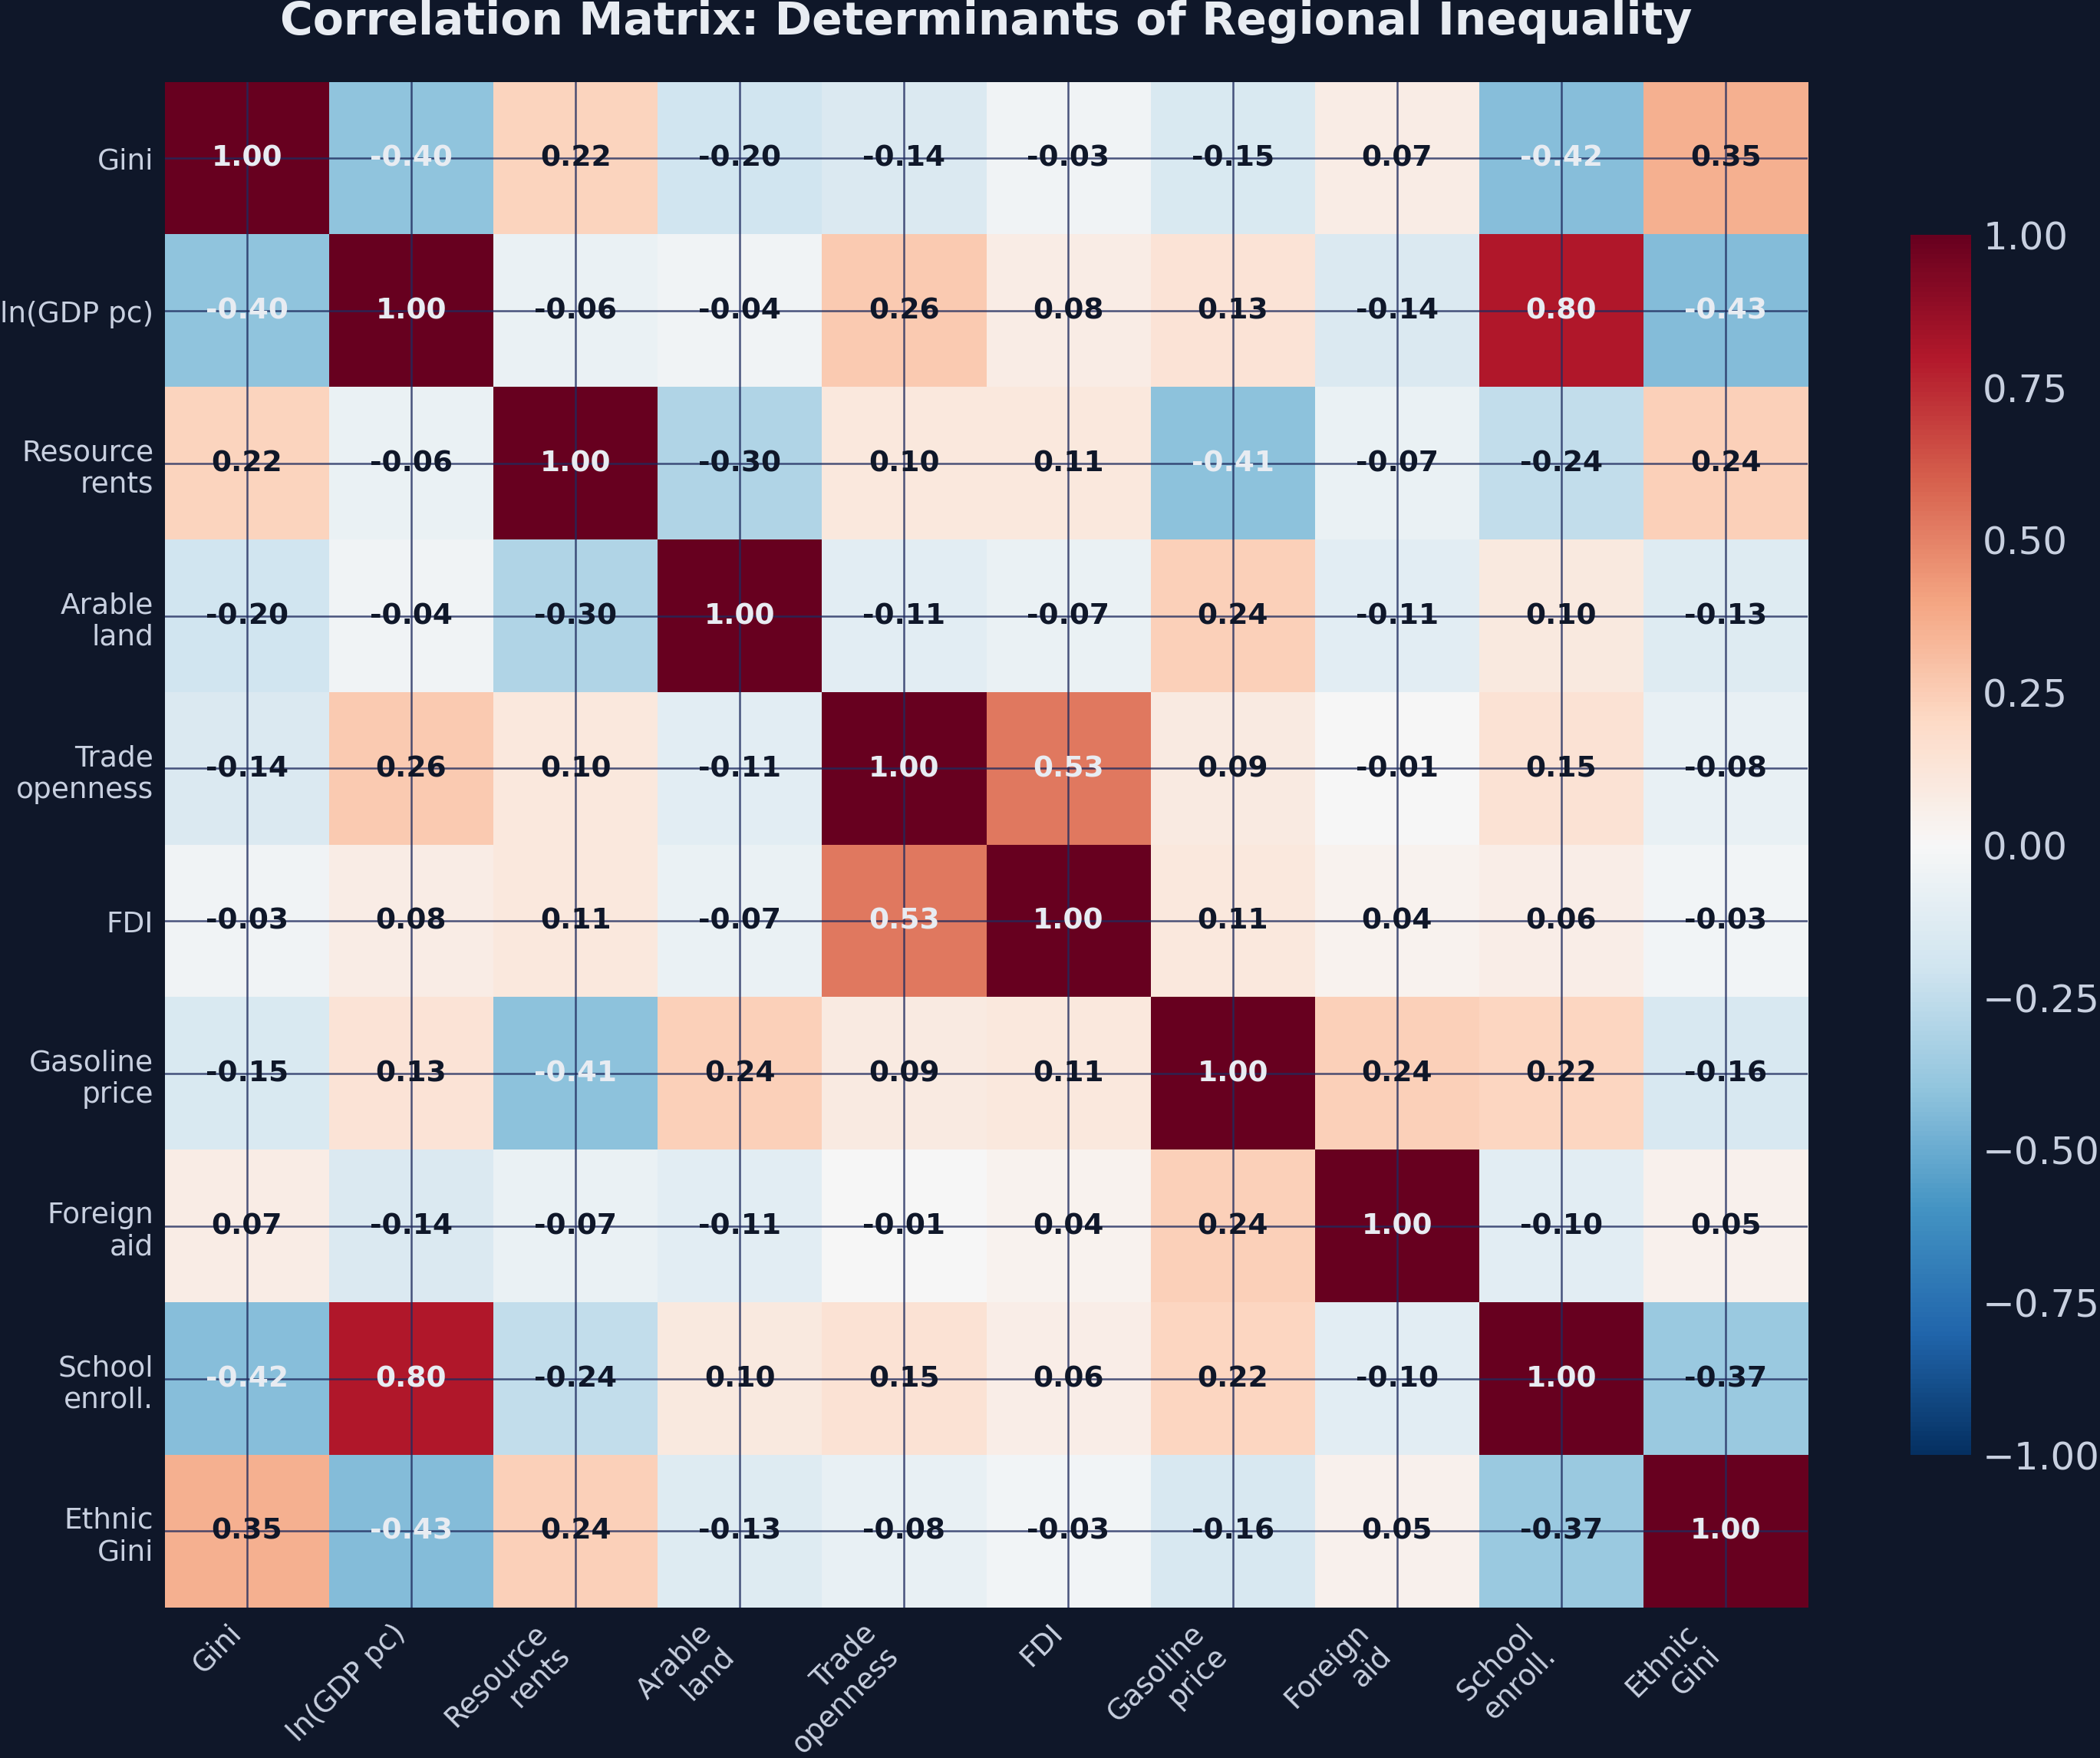
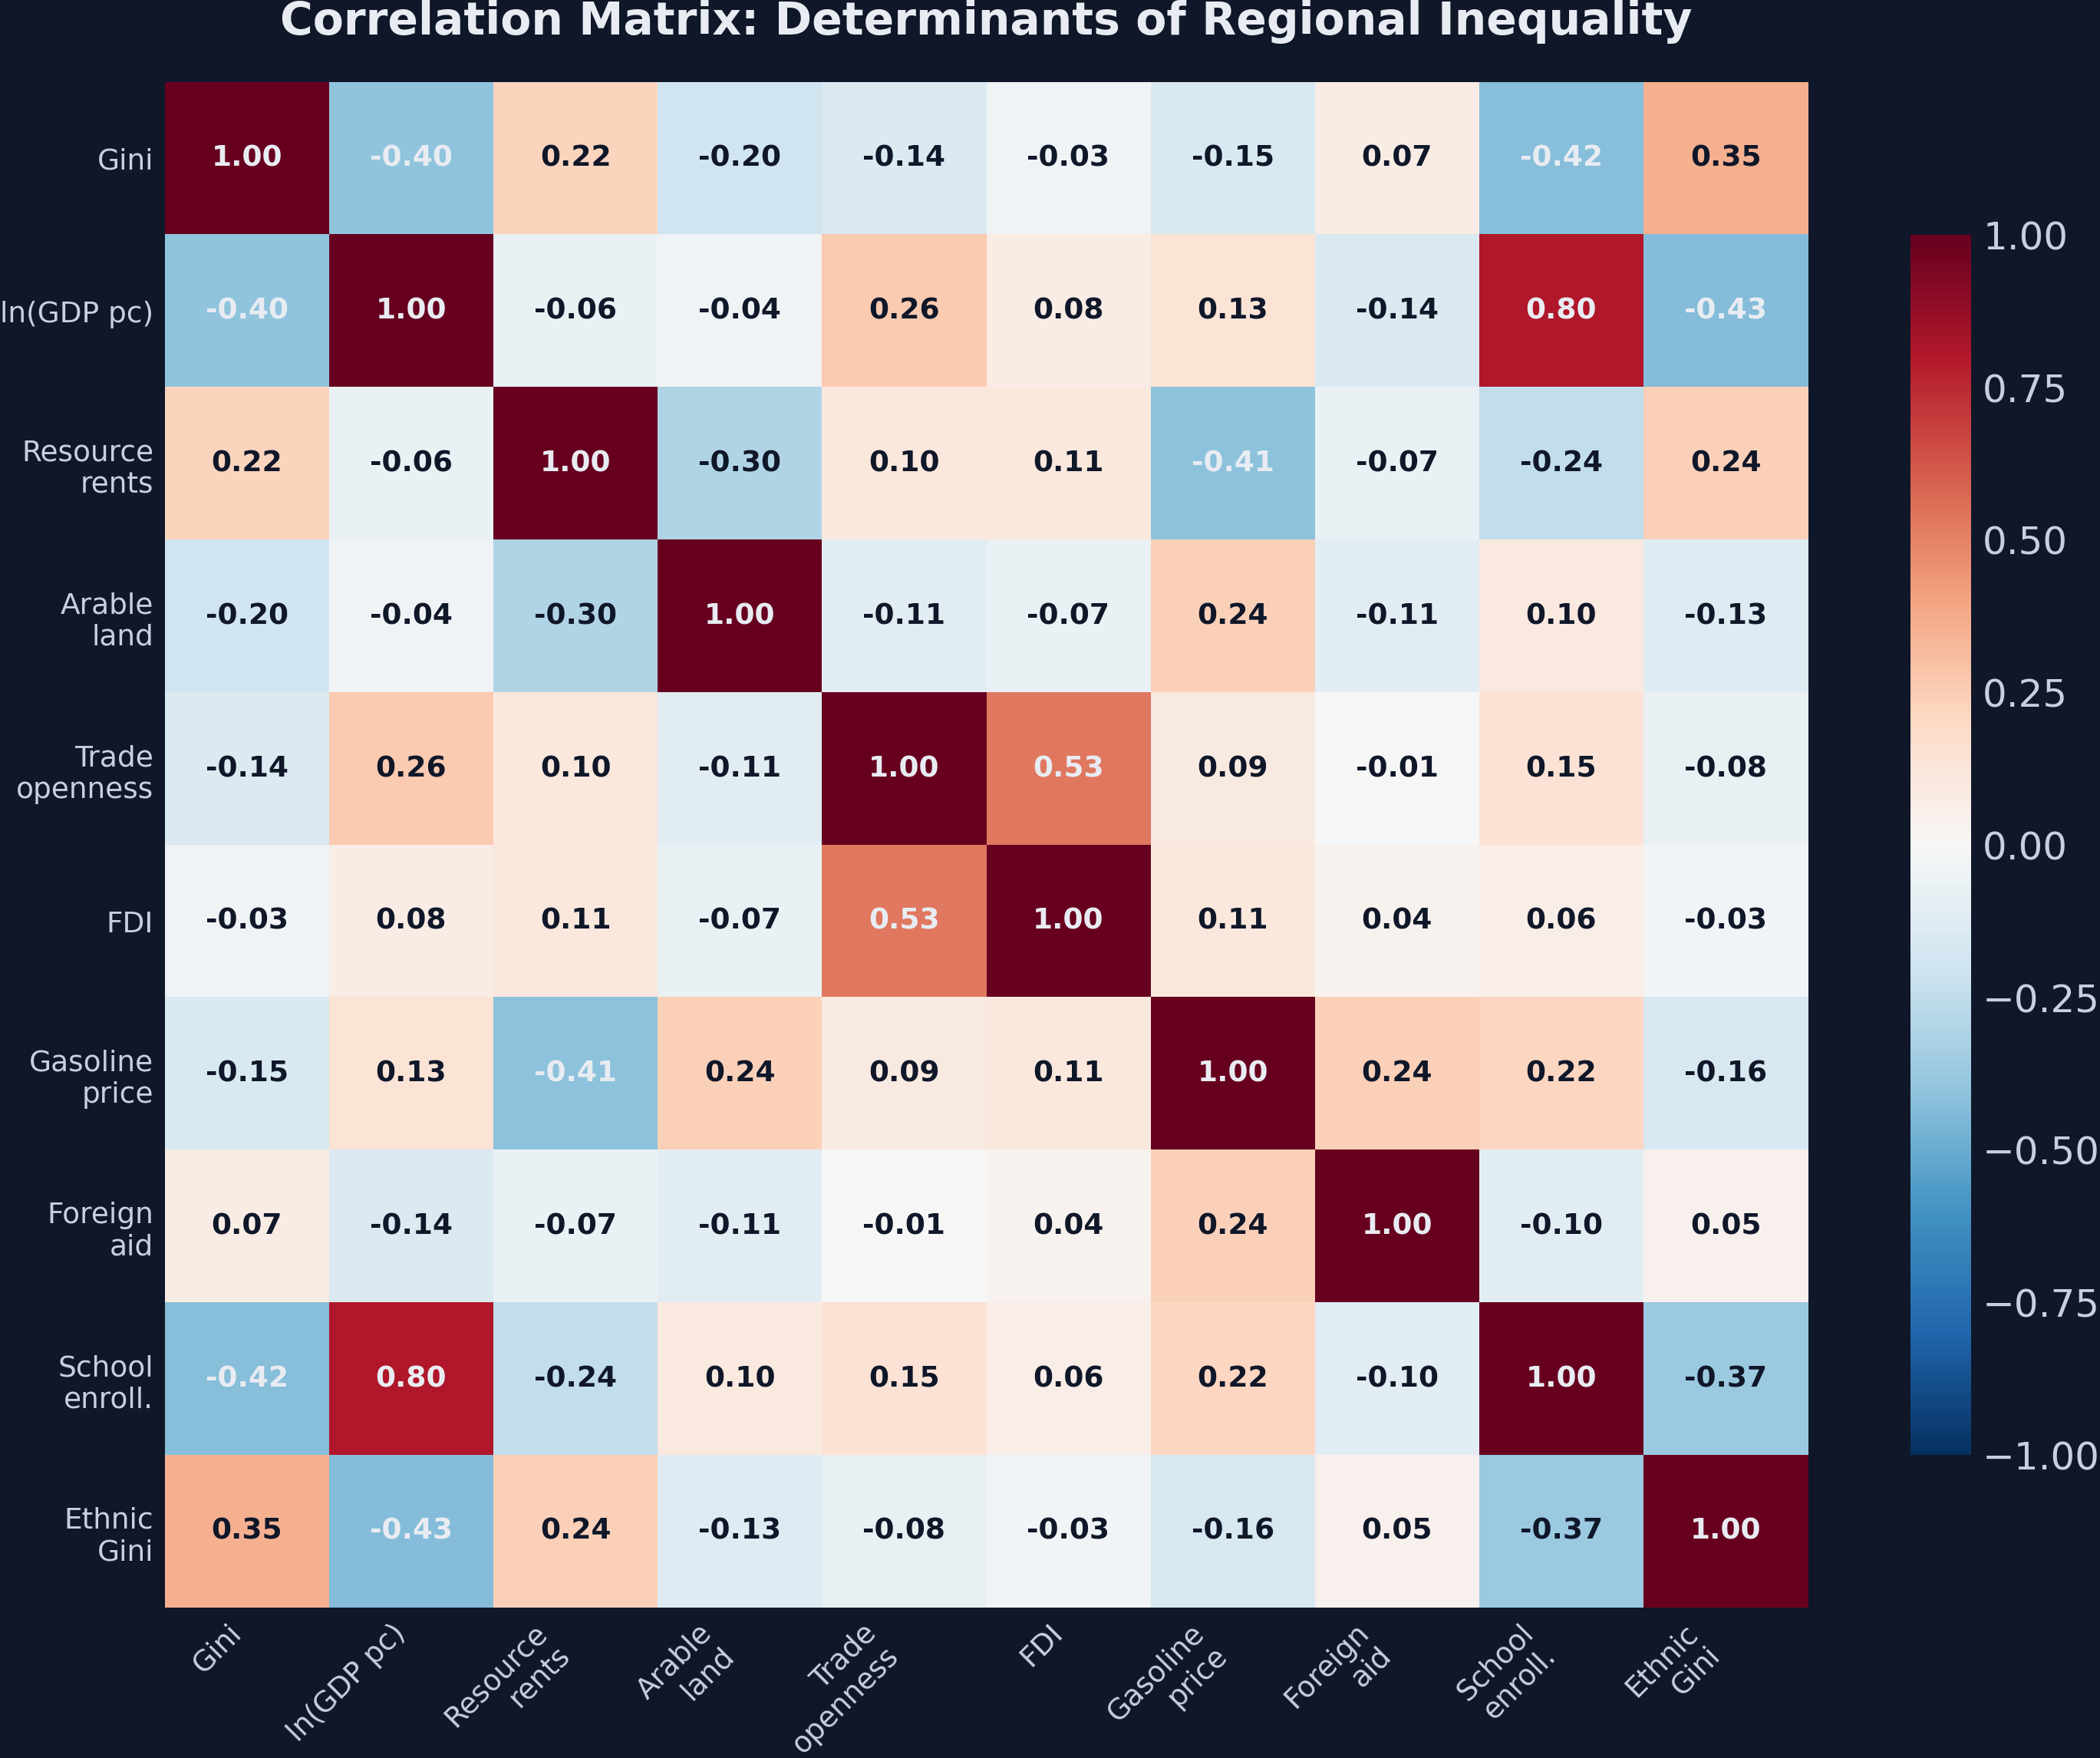
Remove grid lines from correlation heatmap
Added ax.grid(False) to override global rcParams grid setting
that was drawing black lines between heatmap cells.

diff --git a/content/post/python_fe_kuznets/script.py b/content/post/python_fe_kuznets/script.py
@@ -732,7 +732,8 @@ ax.set_yticks(range(len(det_vars)))
 ax.set_xticklabels(det_labels, fontsize=9, rotation=45, ha="right", color=LIGHT_TEXT)
 ax.set_yticklabels(det_labels, fontsize=9, color=LIGHT_TEXT)
 
-# Remove black grid lines from imshow
+# Remove black grid lines from imshow (global rcParams enables grid)
+ax.grid(False)
 ax.tick_params(top=False, bottom=False, left=False, right=False)
 for spine in ax.spines.values():
     spine.set_visible(False)